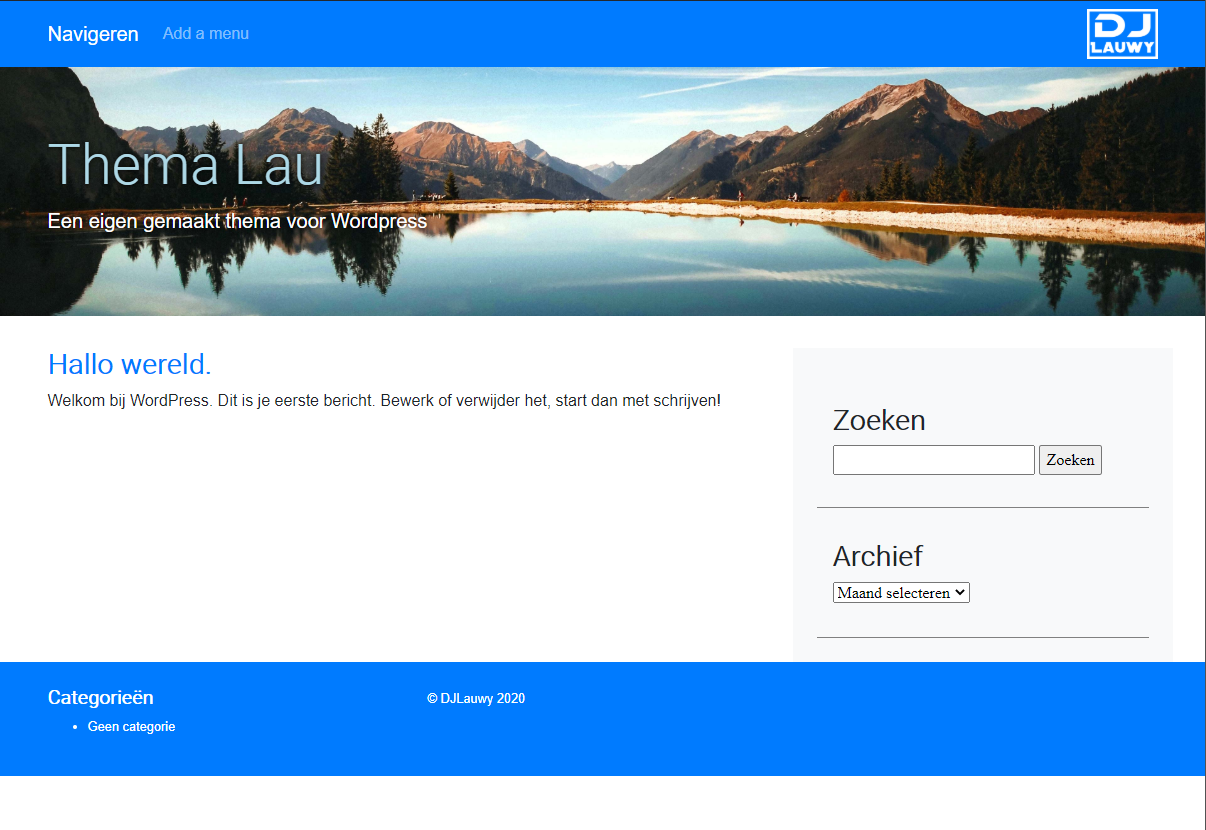
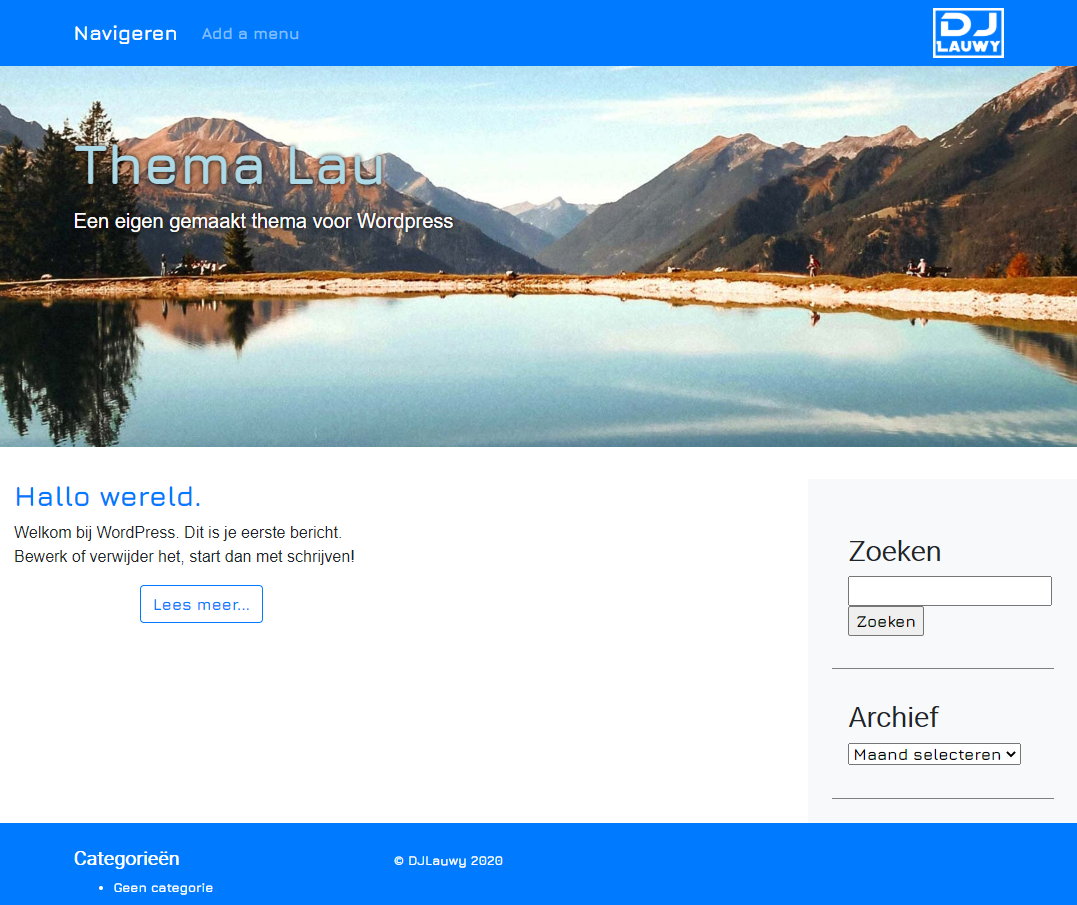
reamde + screenshot
readme gefaciliteerd met een live link. Screenshot geupdate.

diff --git a/README.md b/README.md
@@ -1,4 +1,4 @@
 # wp-training eigen thema
  Eigen thema in WordPress
 
-LIVE LINK: <soon>
+LIVE LINK: http://12700.hosts2.ma-cloud.nl/bewijzenmap/periode1.4/cms/wp-training/
